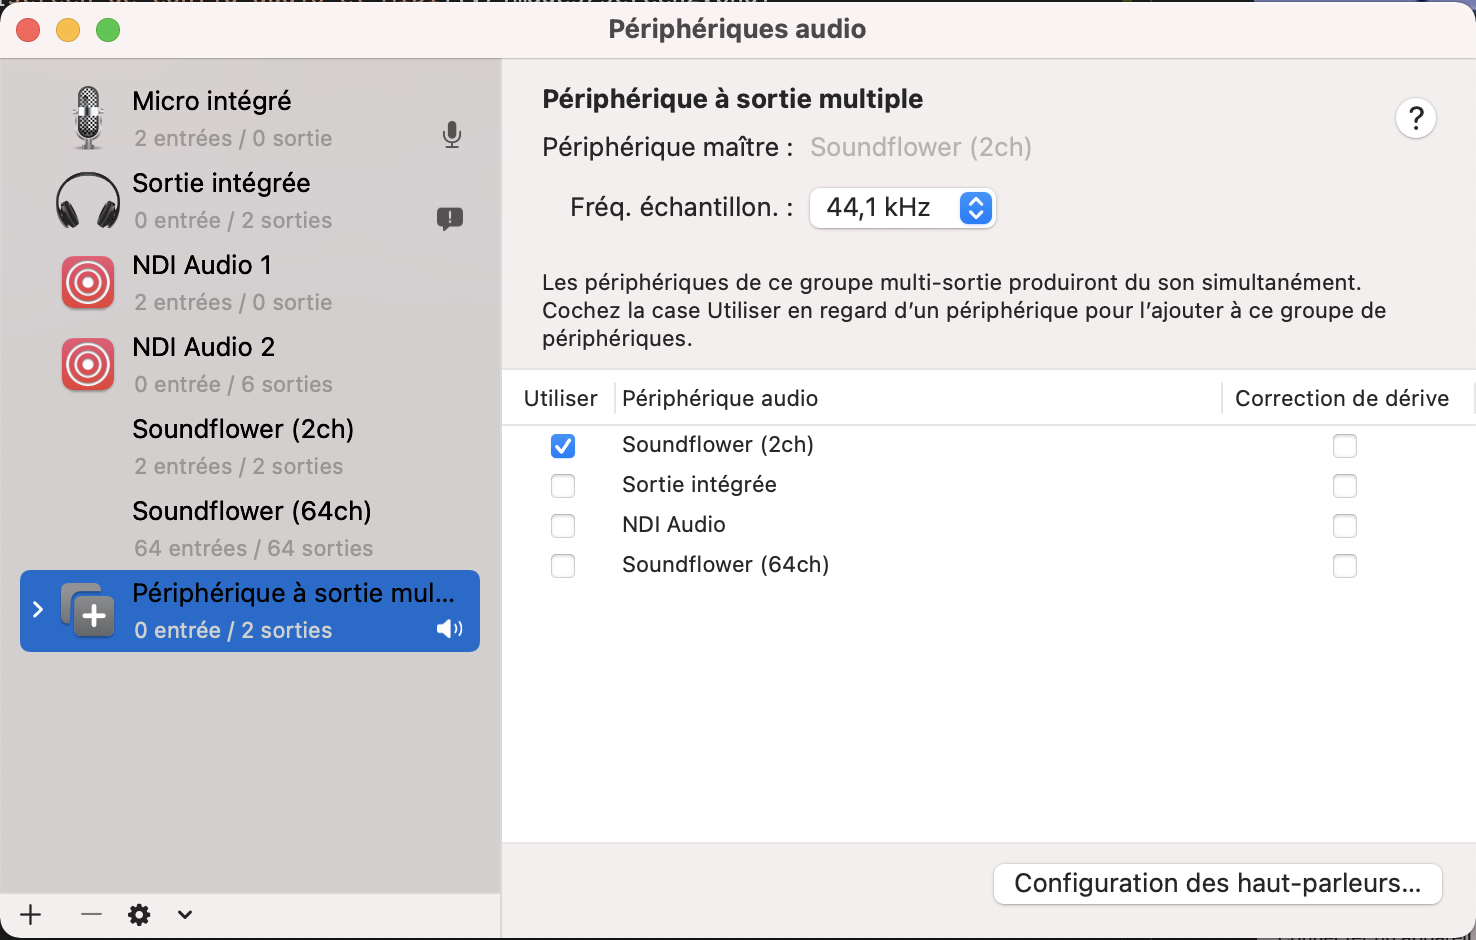
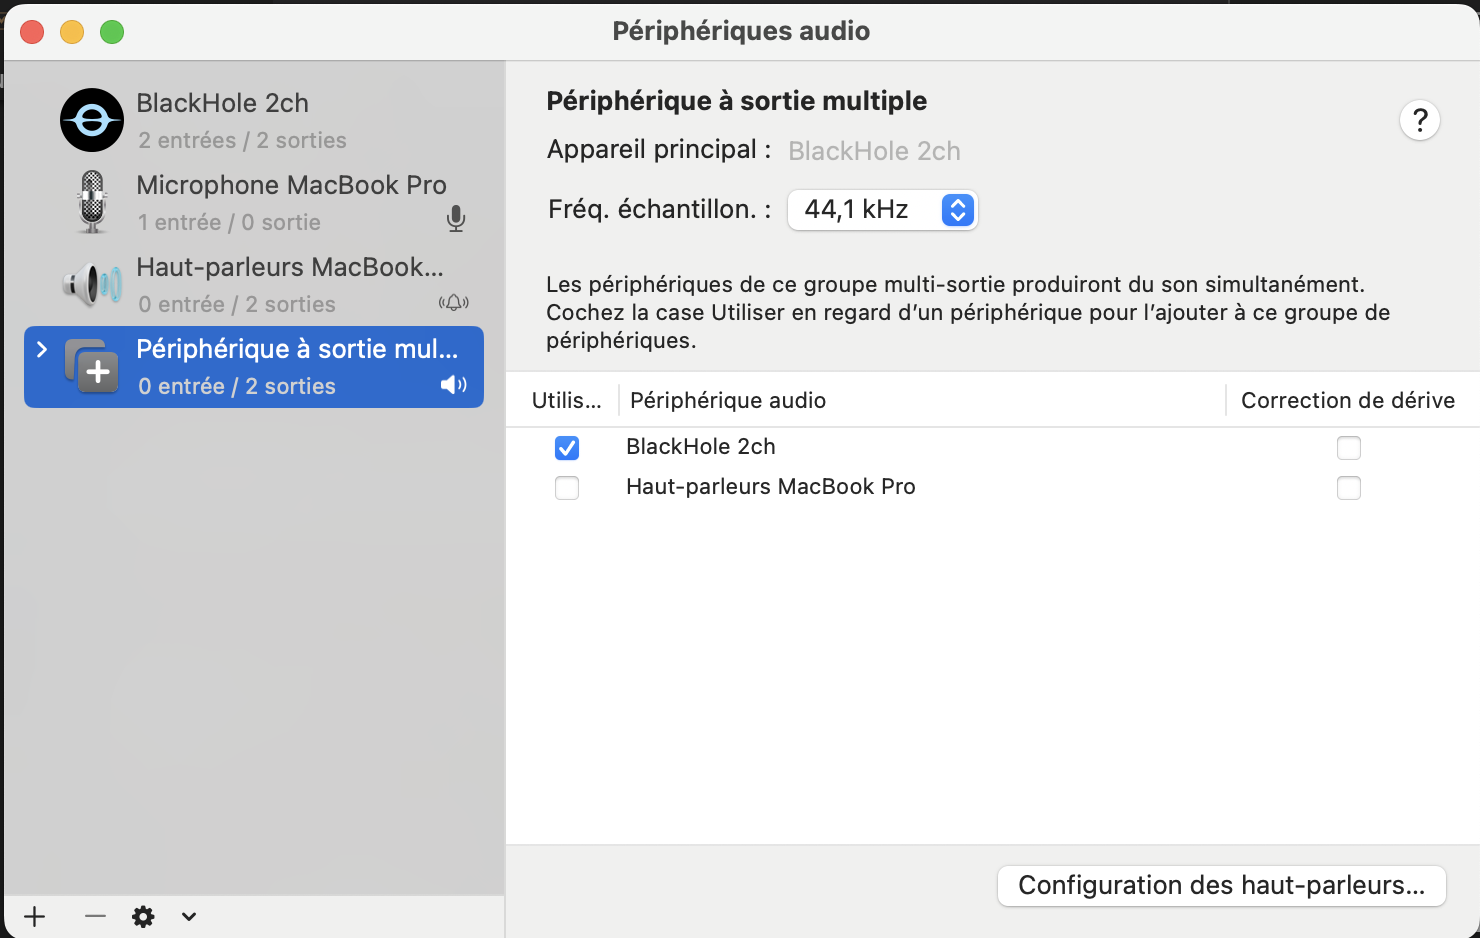
update

diff --git a/README.md b/README.md
@@ -1,4 +1,4 @@
-# TD_audioreact_love
+# Touchdesigner Audioreact love (FR)
 
 *[english version](https://github.com/LucieMrc/TD_audioreact_love_EN)*
 
@@ -13,7 +13,7 @@ On peux soit ouvrir un fichier son avec un CHOP `Audio File In`, ou écouter le 
 Si on veux écouter du son depuis youtube ou spotify ou autre, il faut installer un logiciel permettant de faire un câble audio virtuel pour que le son sorte dans TouchDesigner au lieu de sortir dans les hauts-parleurs.
 
 ### Câble audio virtuel sous mac
-Perso, j'utilise [SoundFlower](https://soundflower.fr.softonic.com/mac) sur Mac.
+Perso, j'utilise [BlackHole](https://existential.audio/blackhole/) sur Mac.
 
 Ouvrir l'application `Configuration audio et MIDI`, qui se trouve dans le dossier Application > Utilitaires.
 
@@ -23,11 +23,11 @@ Une fois dans l'application, faire `Créer un périphérique à sortie multiple`
 
 ![screen de Config audio et MIDI](./images/screen2.png)
 
-Cocher "Soundflower (2ch)".
+Cocher "BlackHole (2ch)".
 
 ![screen de Config audio et MIDI](./images/screen3.png)
 
-Dans TouchDesigner, créer un `Audio Device In` et sélectionner "Soundflower(2ch)" comme Device.
+Dans TouchDesigner, créer un `Audio Device In` et sélectionner "BlackHole (2ch)" comme Device.
 
 ![screen de Config audio et MIDI](./images/screen4.png)
 
@@ -35,15 +35,18 @@ Créer un `Audio Device Out` en sortie, et sélectionner "Built-In Output" comme
 
 ![screen de Config audio et MIDI](./images/screen5.png)
 
-Le son de l'ordinateur sort donc dans SoundFlower, est récupéré par TouchDesigner depuis Soundflower, et sort de TouchDesigner dans la sortie son de l'ordinateur (mes écouteurs ou les hauts-parleurs de mon ordi) : son de l'ordi > SoundFlower > TouchDesigner > sortie son
+Le son de l'ordinateur sort donc dans BlackHole, est récupéré par TouchDesigner depuis BlackHole, et sort de TouchDesigner dans la sortie son de l'ordinateur (mes écouteurs ou les hauts-parleurs de mon ordi) : son de l'ordi > BlackHole > TouchDesigner > sortie son
 
 Le mieux est de mettre le son à fond sur la source (Spotify, etc), et de le baisser ensuite dans l'`Audio Device Out`.
 
-On pourrait cocher également "Sortie Intégrée" dans le périphérique à sortie multiple de l'appli Configuration audio et MIDI, pour que le son sorte à la fois dans SoundFlower et dans la sortie son, sans avoir à le sortir depuis TouchDesigner, en mode son de l'ordi > Soundflower > TouchDesigner + son de l'ordi > sortie son, mais comme TouchDesigner perd en FPS parfois, je veux que la musique que j'entend reste synchro à mon visuel même quand ça ralentis.
+On pourrait cocher également "Sortie Intégrée" dans le périphérique à sortie multiple de l'appli Configuration audio et MIDI, pour que le son sorte à la fois dans BlackHole et dans la sortie son, sans avoir à le sortir depuis TouchDesigner, en mode son de l'ordi > BlackHole > TouchDesigner + son de l'ordi > sortie son, mais comme TouchDesigner perd en FPS parfois, je veux que la musique que j'entend reste synchro à mon visuel même quand ça ralentis.
+
+![schema](./images/schema.png)
+
 
  ### Câble audio virtuel sous windows
 
- Jsp encore.
+Même principe mais avec [Virtual Audio Cable](https://vb-audio.com/Cable/), Elekktronaut en a fait une vidéo récemment : ["Internal Audio to TouchDesigner"](https://www.elekktronaut.com/tutorials/internal-audio-to-touchdesigner).
 
  ## Son en visuel
 
